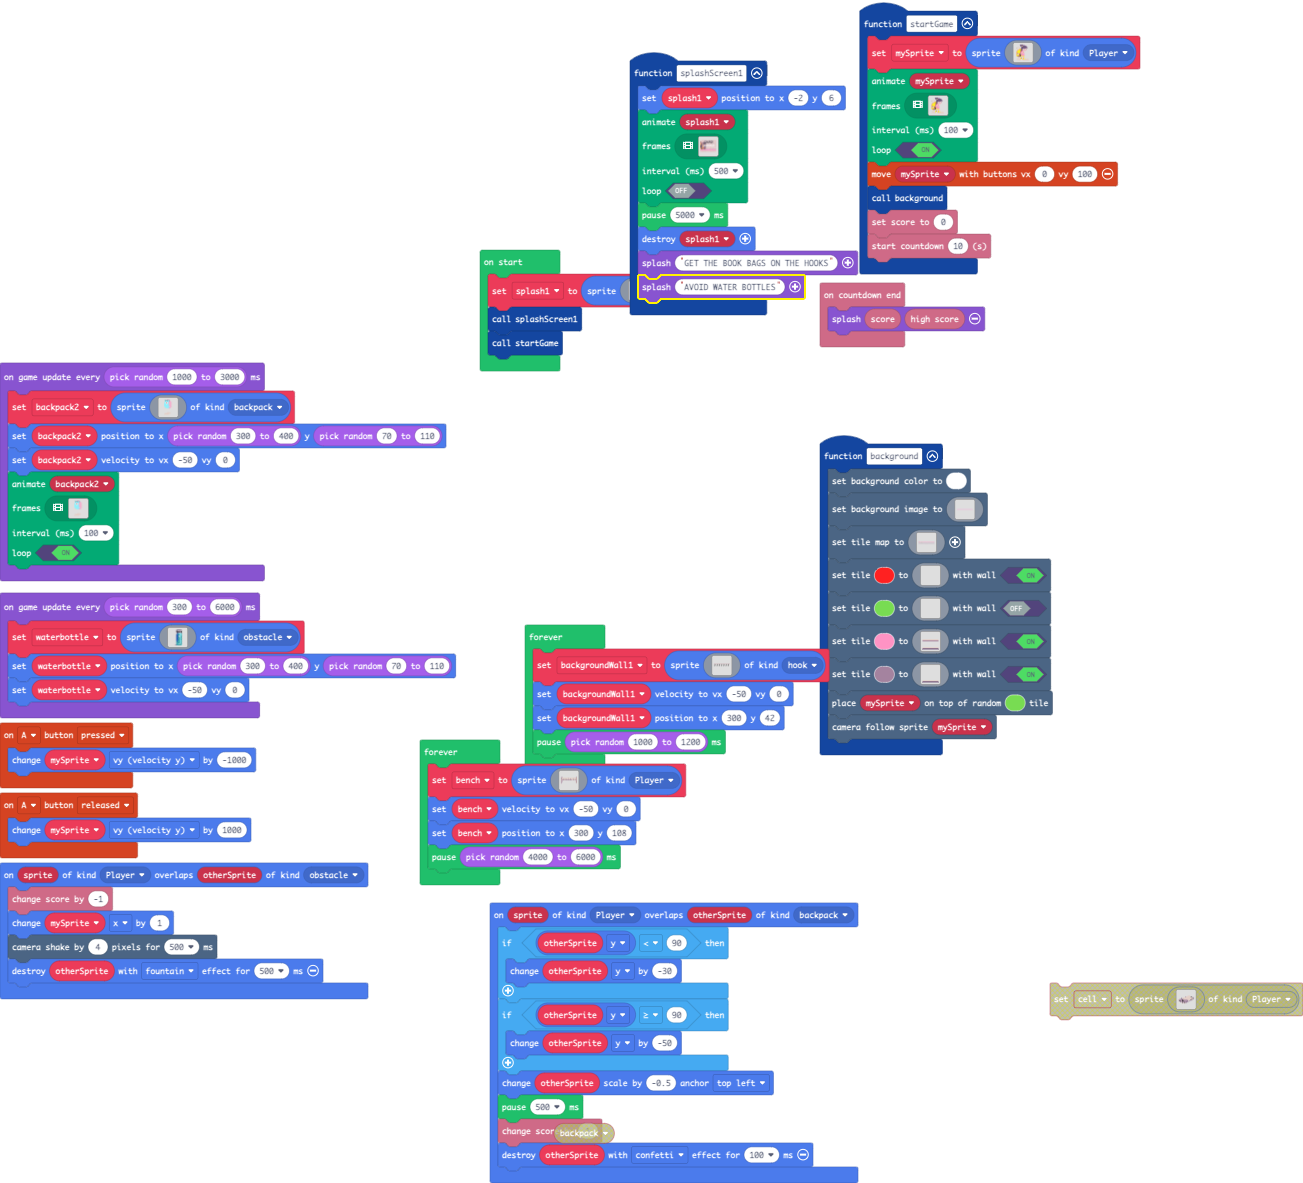
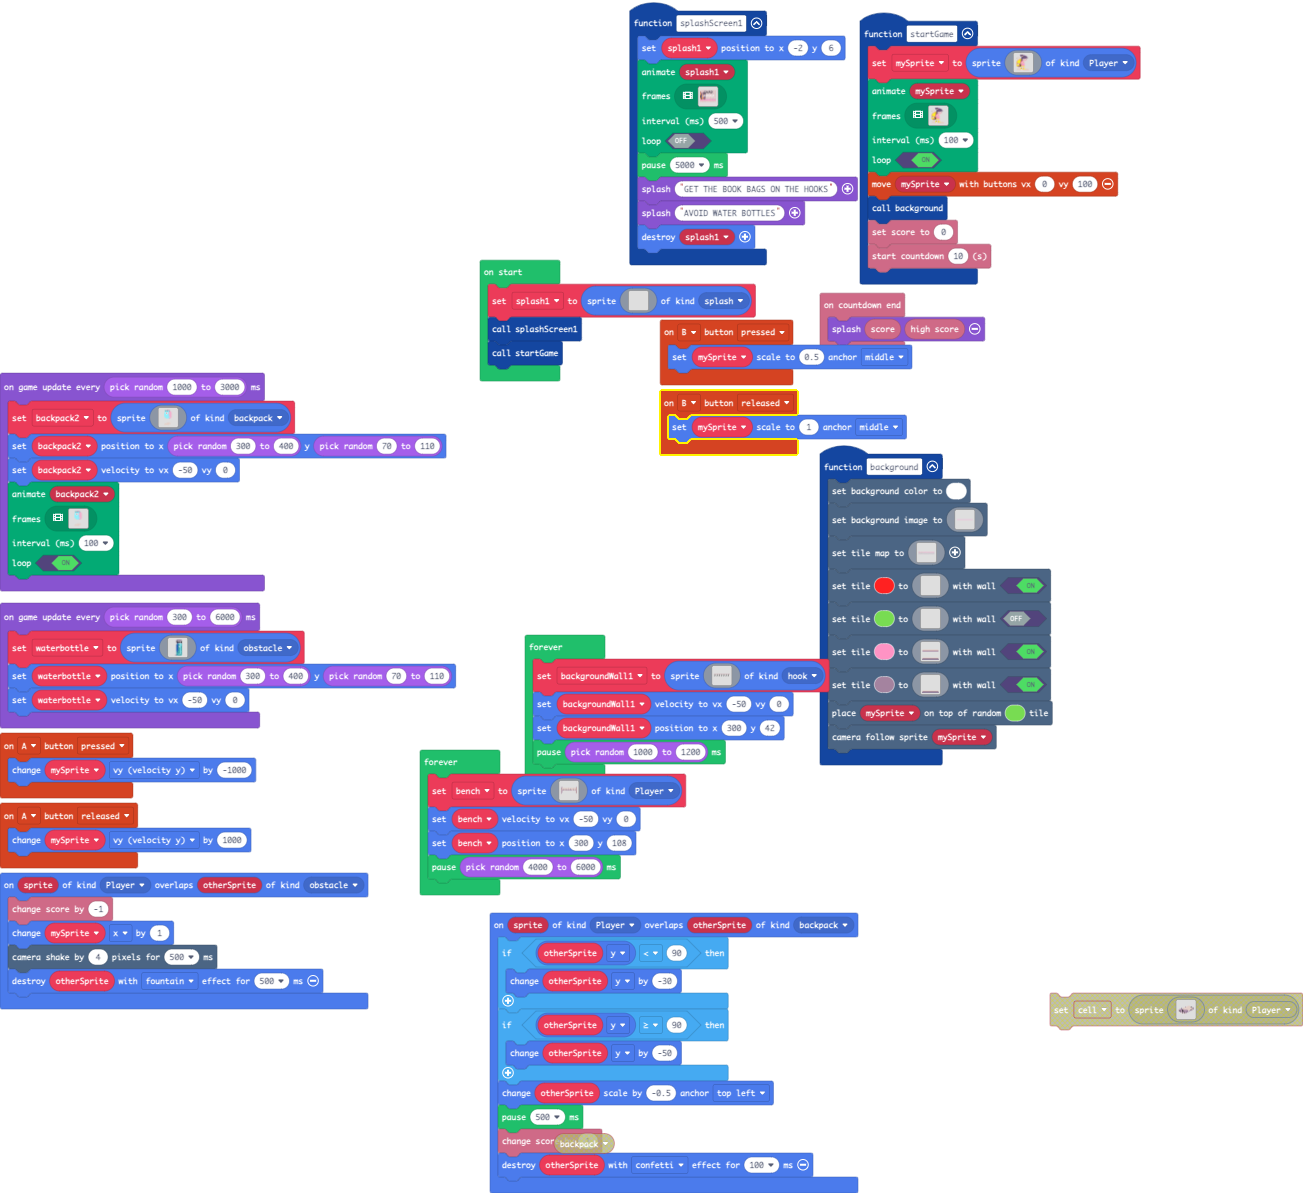
playerGetsSmallonB PRESS

Changed region(s): [[0.307, 0.0, 0.8903, 0.9738], [0.0, 0.3043, 0.3684, 0.8521], [0.7982, 0.8216, 1.0, 0.8825]]

diff --git a/main.ts b/main.ts
@@ -4,6 +4,9 @@ namespace SpriteKind {
     export const obstacle = SpriteKind.create()
     export const splash = SpriteKind.create()
 }
+controller.B.onEvent(ControllerButtonEvent.Pressed, function () {
+    mySprite.setScale(0.5, ScaleAnchor.Middle)
+})
 controller.A.onEvent(ControllerButtonEvent.Pressed, function () {
     mySprite.vy += -1000
 })
@@ -737,9 +740,9 @@ function splashScreen1 () {
     false
     )
     pause(5000)
-    sprites.destroy(splash1)
     game.splash("GET THE BOOK BAGS ON THE HOOKS")
     game.splash("AVOID WATER BOTTLES")
+    sprites.destroy(splash1)
 }
 sprites.onOverlap(SpriteKind.Player, SpriteKind.obstacle, function (sprite, otherSprite) {
     info.changeScoreBy(-1)
@@ -752,6 +755,9 @@ info.onCountdownEnd(function () {
 })
 controller.A.onEvent(ControllerButtonEvent.Released, function () {
     mySprite.vy += 1000
+})
+controller.B.onEvent(ControllerButtonEvent.Released, function () {
+    mySprite.setScale(1, ScaleAnchor.Middle)
 })
 sprites.onOverlap(SpriteKind.Player, SpriteKind.backpack, function (sprite, otherSprite) {
     if (otherSprite.y < 90) {
